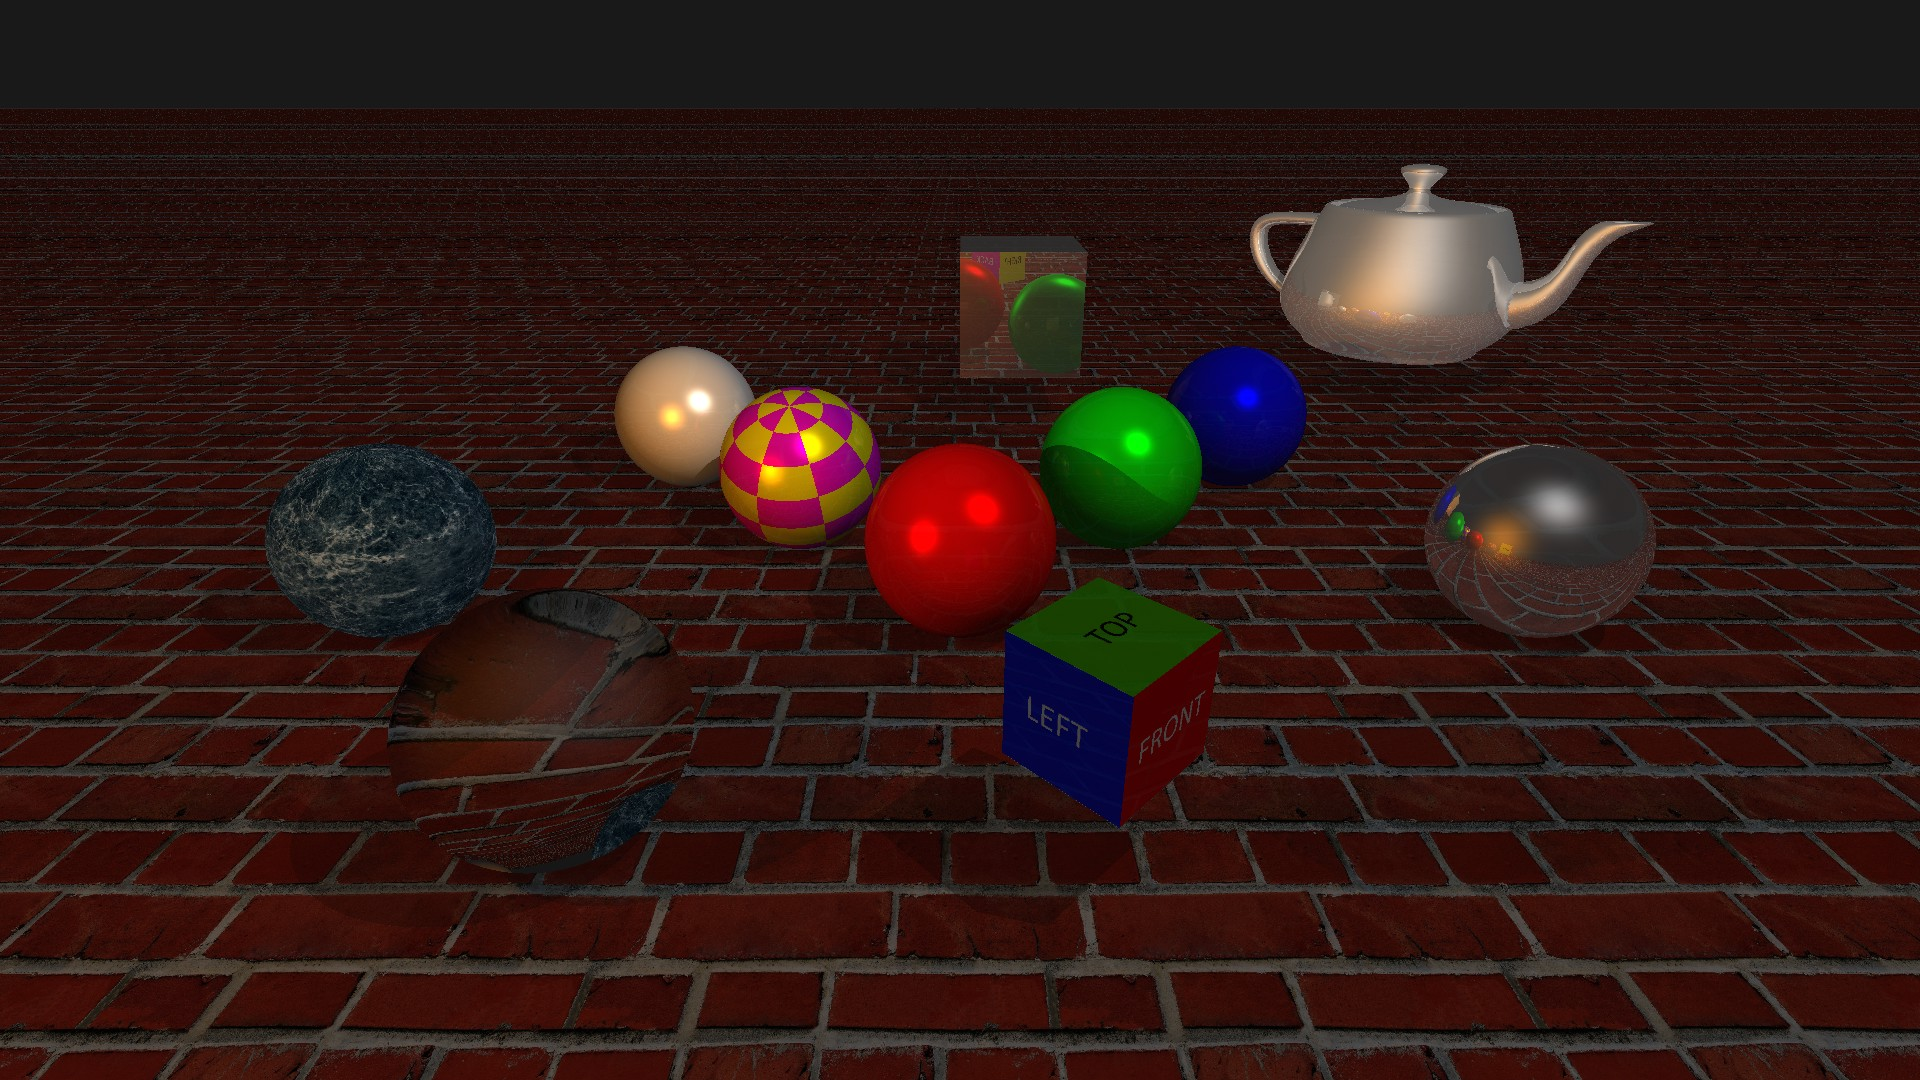
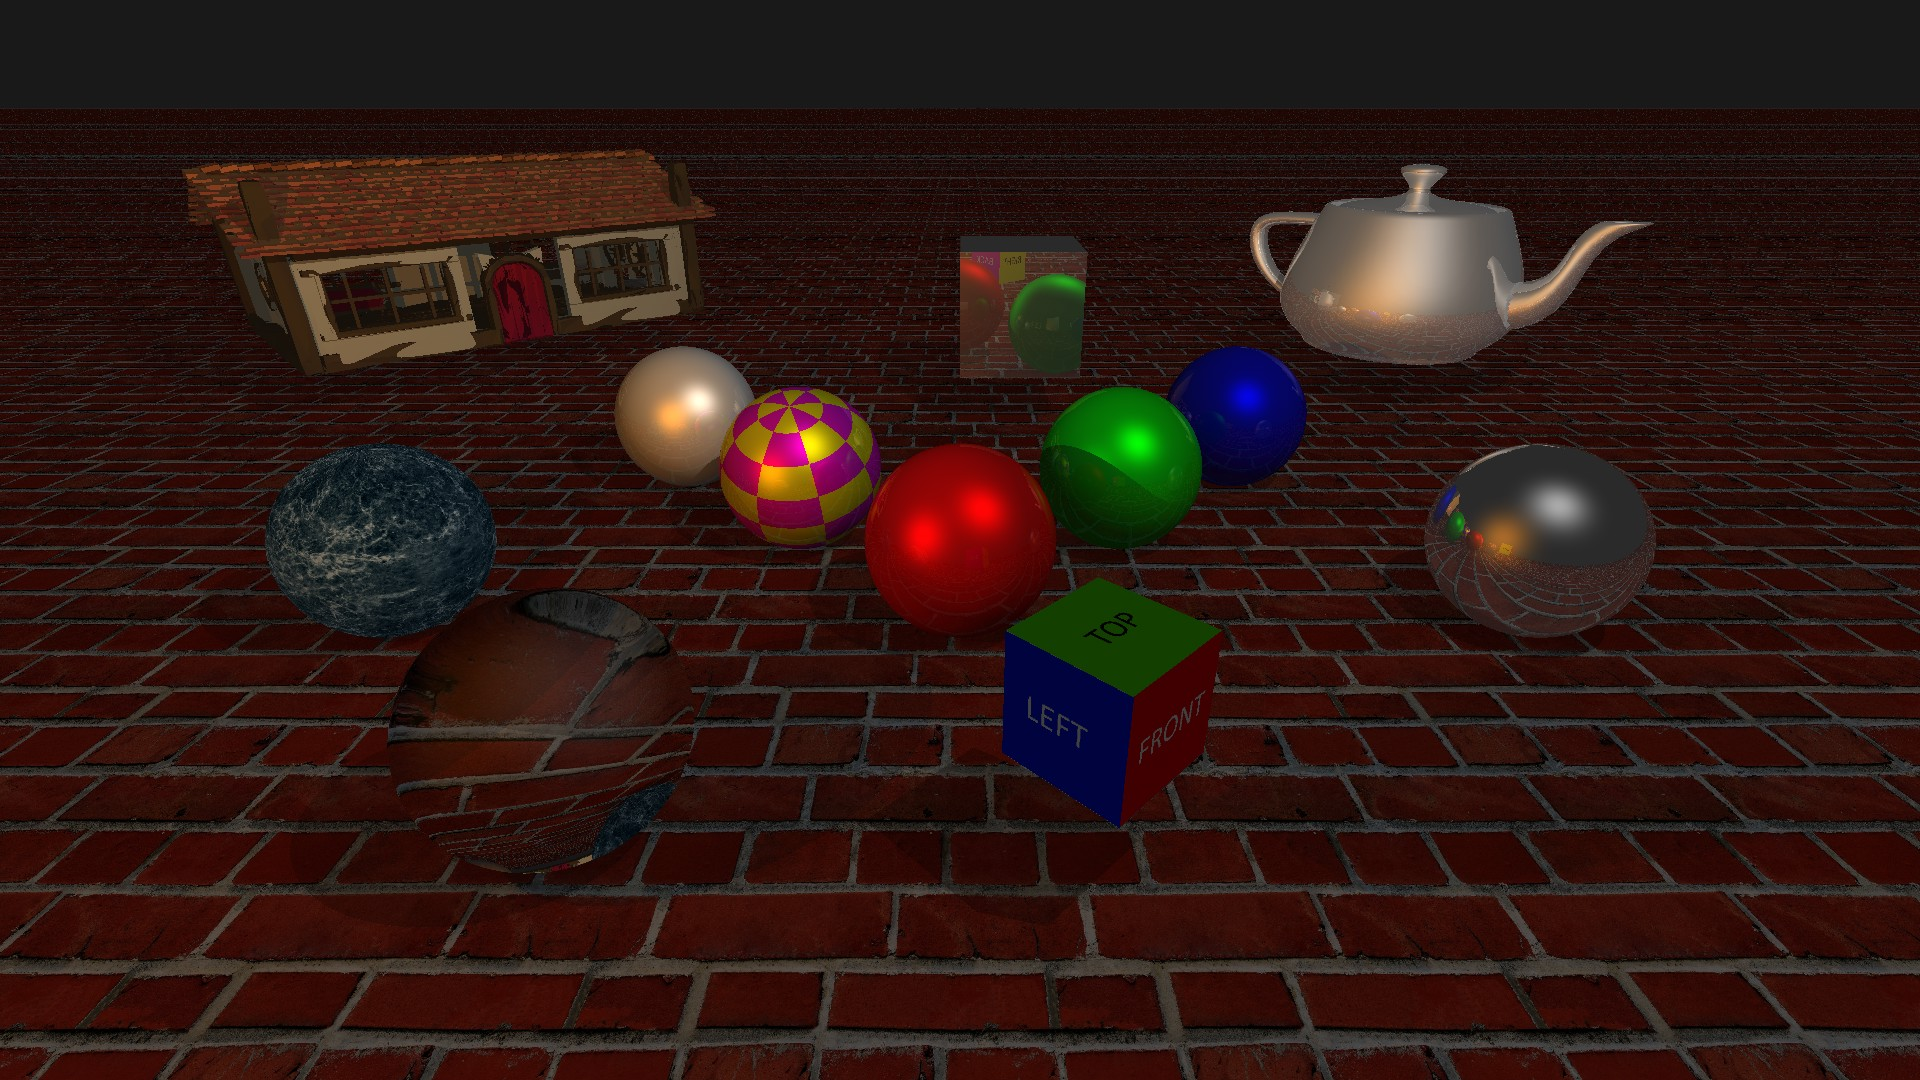
Update example scene.

Changed region(s): [[0.0938, 0.1222, 0.5625, 0.5194], [0.5625, 0.3667, 0.625, 0.4278], [0.4688, 0.4889, 0.5312, 0.55]]

diff --git a/RayTracer/ExampleScene.cpp b/RayTracer/ExampleScene.cpp
@@ -243,6 +243,20 @@ Scene ExampleScene::Build()
 			}
 		)
 	);
+	scene.objects.push_back(
+		std::make_unique<MeshObject>(
+			/* Position: */					Vector(-8, 0, 8),
+			/* Rotation: */					Vector(0, 3 * std::numbers::pi / 4, 0),
+			/* Mesh: */						MakeObjectMesh("Assets/House.obj", 0.6),
+			/* Texture: */					MakeImageTexture("Assets/buildingPartsTexture.png"),
+			/* Material: */					Material{
+				.ambient = 0.2,
+				.diffuse = 0.1,
+				.specular = 0.1,
+				.reflectivity = 0.0
+			}
+		)
+	);
 
 	return scene;
 }
